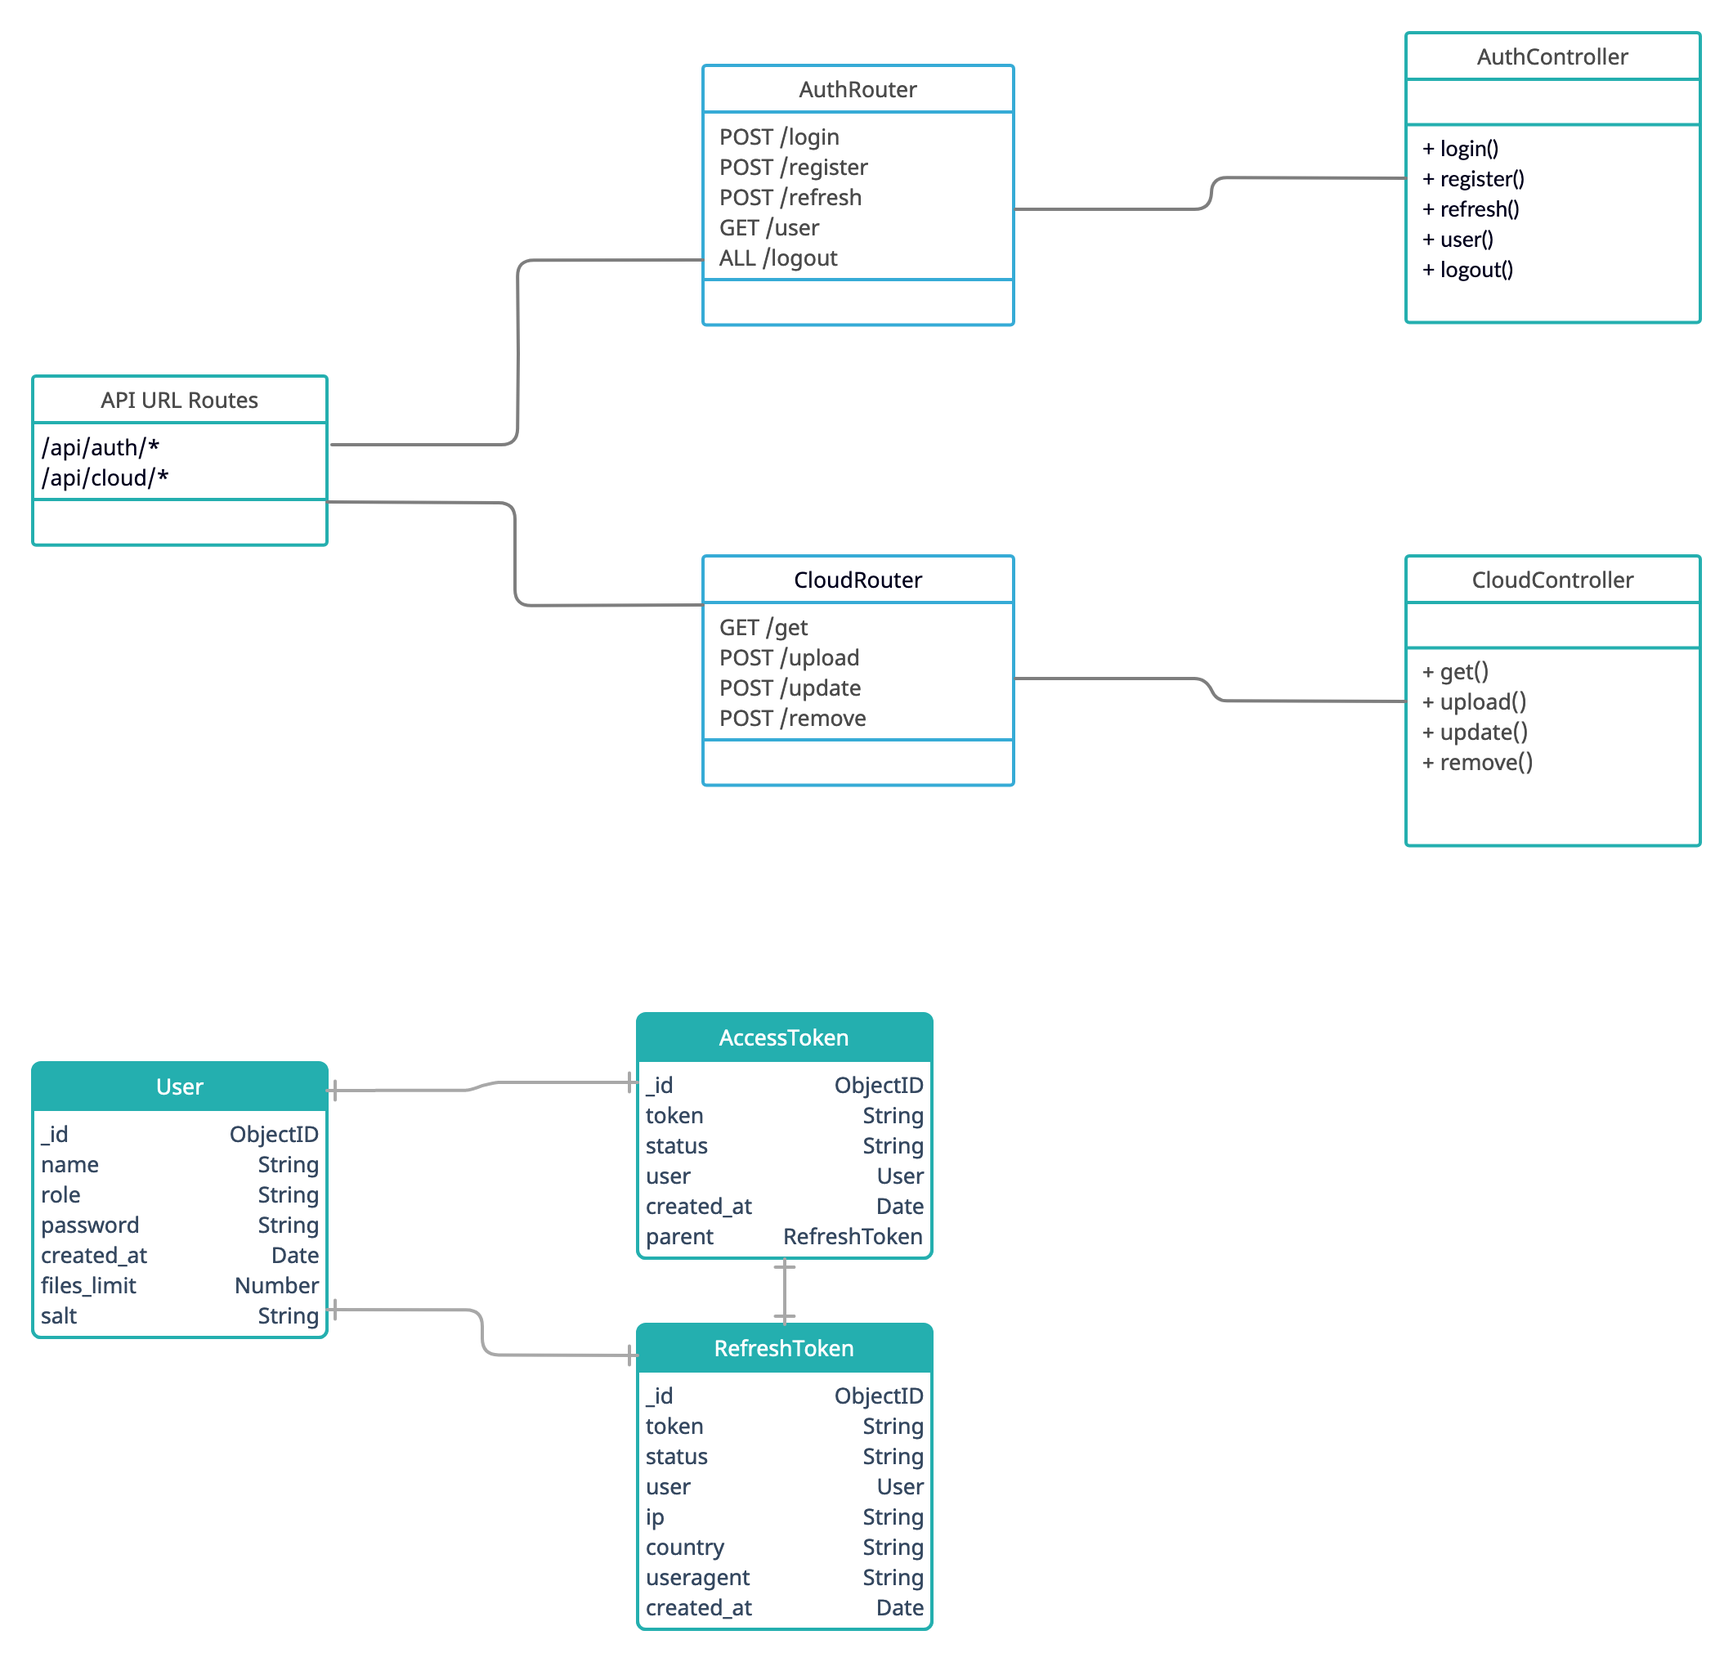
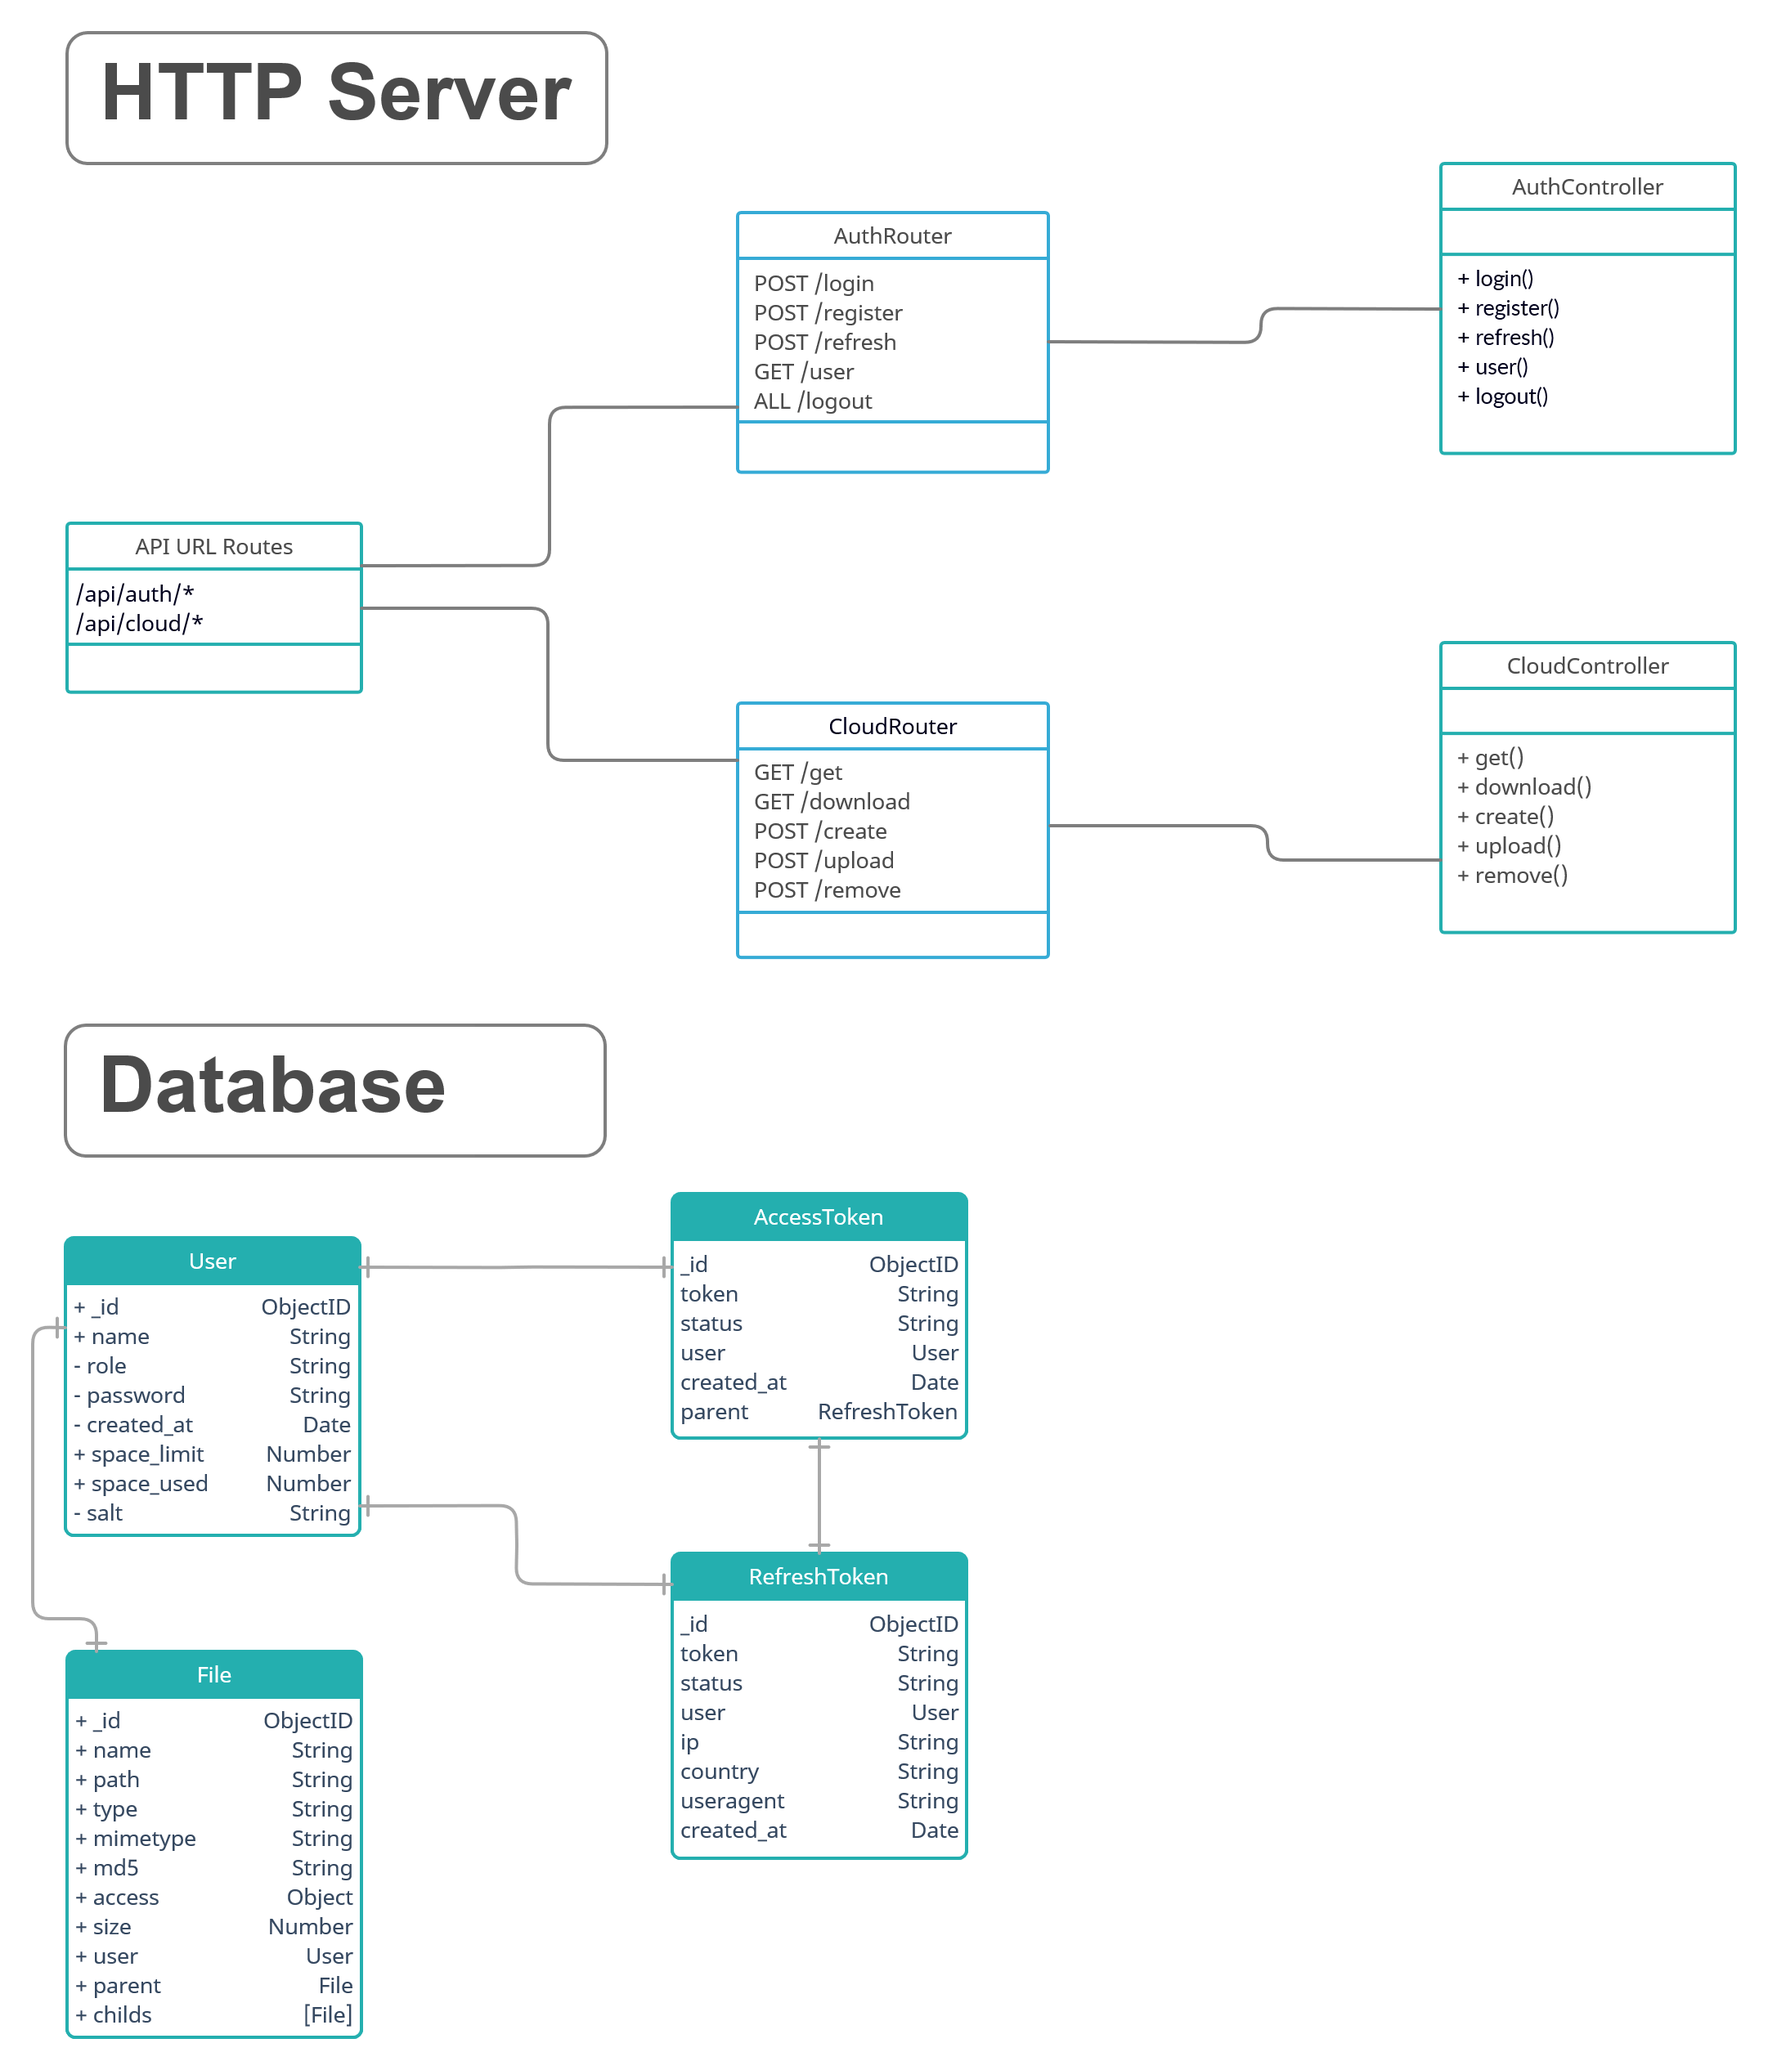
Update

diff --git a/Server/src/Modules/Model/FileModel.js b/Server/src/Modules/Model/FileModel.js
@@ -1,0 +1,19 @@
+import mongoose from 'mongoose'
+
+let File = mongoose.model('File', new mongoose.Schema({
+    name: { type: String, required: true },
+    path: { type: String, required: true },
+    type: { type: String, required: true, default: 'file' },
+    mimetype: { type: String },
+    md5: { type: String },
+    access: { 
+        access_type: { type: String, required: true, default: 'public' },
+        access_users: [ { type: mongoose.Schema.Types.ObjectId, ref: 'User' } ]
+    },
+    size: { type: Number, required: true, default: 0 },
+    user: { type: mongoose.Schema.Types.ObjectId, ref: 'User' },
+    parent: { type: mongoose.Schema.Types.ObjectId, ref: 'File' },
+    childs: [ { type: mongoose.Schema.Types.ObjectId, ref: 'File' } ]
+}))
+
+export { File }

diff --git a/Server/src/Modules/Model/UserModel.js b/Server/src/Modules/Model/UserModel.js
@@ -9,7 +9,8 @@ let UserSchema = new mongoose.Schema({
     role: { type: String, required: true, default: 'User' },                            // User role (User, Admin)
     password: { type: String, required: true },                                         // Password
     created_at: { type: Date, required: true, default: Date.now },                      // User creation date
-    files_limit: { type: Number, required: true, default: 5 * 1024 * 1024 * 1024 },     // Total size of files limit
+    space_limit: { type: Number, required: true, default: 5 * 1024 * 1024 * 1024 },     // Total size of files limit
+    space_used: { type: Number, required: true, default: 0 },
     salt: { type: String, required: true }
 });
 

diff --git a/Server/src/Modules/Controller/AuthController.js b/Server/src/Modules/Controller/AuthController.js
@@ -53,7 +53,7 @@ let AuthController = {
 
             let SelfToken = await RefreshToken.findOne({ token: req.query.refresh_token || req.cookies.refresh_token, user: req.query.user || req.cookies.user }).exec()
 
-            if (!SelfToken || SelfToken.status != 'active') return next(new Err(401, 'Invalid token'))
+            if (!SelfToken || SelfToken.status != 'active') return next(new Err(401, 'Invalid session'))
 
             let _NewAccessToken = new AccessToken({ user: SelfToken.user, parent: SelfToken._id });
             let NewAccessToken = await _NewAccessToken.save();

diff --git a/Server/README.md b/Server/README.md
@@ -9,8 +9,8 @@ For HTTP Server, we are using `express` module
 ~#  npm i
 ~#  node src/index.js
 
-    DB Connected to mongodb://51.83.187.184:27017
-    HTTP Server started on http://localhost:3001
+    DB Connected to mongodb://127.0.0.1:27017
+    HTTP Server started on http://127.0.0.1:3001
 ```
 
 
@@ -21,7 +21,7 @@ For HTTP Server, we are using `express` module
 # API
 
 For every request, API returns JSON object with fields:
-- `time` – the time it took the server to process the request
+- `time` – the time it took the server to process the request in seconds
 - `response` – the field in which the server returns the request response
 - `error` – the object in which the error information is returned. 
 
@@ -39,7 +39,7 @@ For every request, API returns JSON object with fields:
 
 {
     time: Float,
-    response: Object || Array || String || Number
+    response: Any
 }
 ```
 
